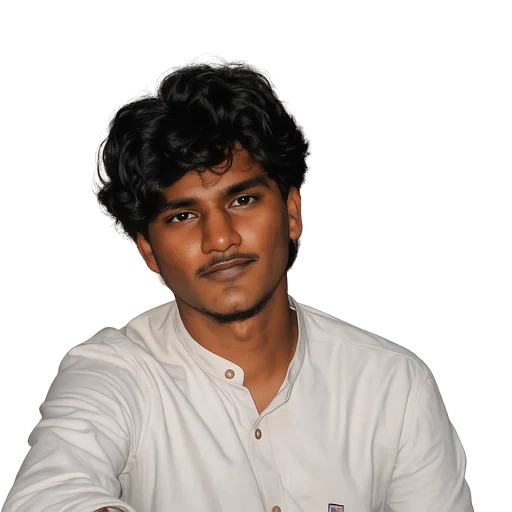
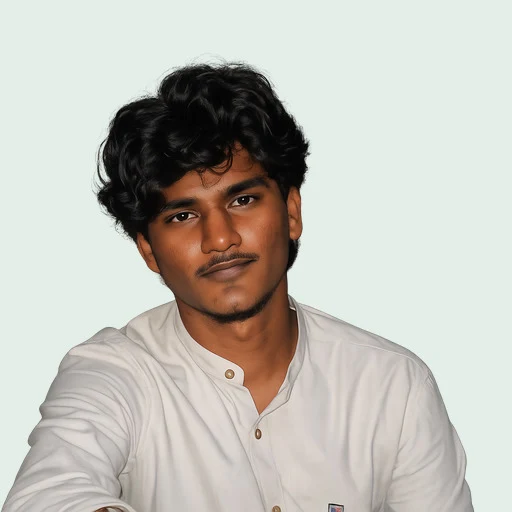
Give all three headshots a matching sage background
Ran local ML matting (rembg / isnet-general-use) over Devike's and
Devangi's photos, which had black and dark-grey backgrounds baked into
the pixels, then composited all three onto the brand sage #E4EEE8 so the
row reads as one set. Done entirely on-machine - the photos were not
uploaded to any third-party background remover.

An earlier ffmpeg colour-key attempt was discarded: with dark hair on a
dark background it erased hair, eyebrows and the top of the head.

Sizes are 2x their display circles: 256, 512, 400.

diff --git a/index.html b/index.html
@@ -422,7 +422,7 @@
       <div class="grid grid-cols-1 md:grid-cols-2 gap-8">
         <div class="bg-surface-container-lowest p-6 md:p-8 rounded-3xl border border-outline-variant/20 shadow-sm flex flex-col items-center text-center gap-4">
           <div class="w-32 h-32 rounded-full overflow-hidden border-4 border-surface-variant bg-sage">
-            <picture><source srcset="assets/img/team-2.webp" type="image/webp"><img src="assets/img/team-2.png" alt="Mubarak-D, co-founder and technology" width="512" height="512" loading="lazy" class="w-full h-full object-cover"></picture>
+            <picture><source srcset="assets/img/team-2.webp" type="image/webp"><img src="assets/img/team-2.jpg" alt="Mubarak-D, co-founder and technology" width="512" height="512" loading="lazy" class="w-full h-full object-cover"></picture>
           </div>
           <div>
             <h3 class="font-headline-sm text-primary mb-2" data-t="team_2_name">Mubarak-D — Co-founder &amp; Technology</h3>
@@ -431,7 +431,7 @@
         </div>
         <div class="bg-surface-container-lowest p-6 md:p-8 rounded-3xl border border-outline-variant/20 shadow-sm flex flex-col items-center text-center gap-4">
           <div class="w-32 h-32 rounded-full overflow-hidden border-4 border-surface-variant bg-sage">
-            <picture><source srcset="assets/img/team-1.webp" type="image/webp"><img src="assets/img/team-1.jpg" alt="Devangi, marketing and operations" width="200" height="200" loading="lazy" class="w-full h-full object-cover"></picture>
+            <picture><source srcset="assets/img/team-1.webp" type="image/webp"><img src="assets/img/team-1.jpg" alt="Devangi, marketing and operations" width="256" height="256" loading="lazy" class="w-full h-full object-cover"></picture>
           </div>
           <div>
             <h3 class="font-headline-sm text-primary mb-2" data-t="team_3_name">Devangi — Marketing &amp; Operations</h3>
